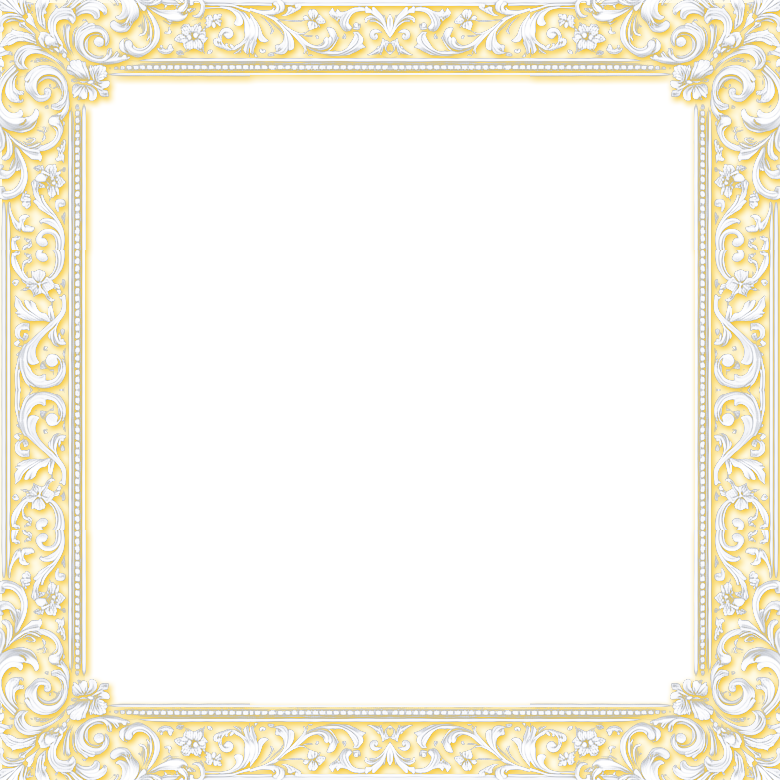
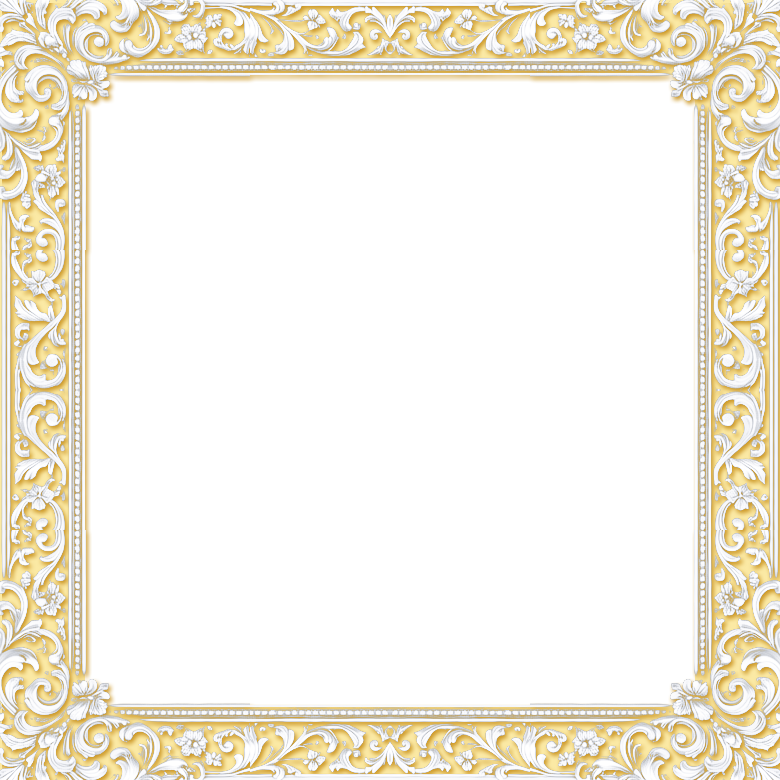
feat: GR frame ground mixed from ivory white and bright yellow (about #FBE9A4)

Changed region(s): [[0.0, 0.0, 1.0, 1.0]]

diff --git a/components/cards/CardFrame.tsx b/components/cards/CardFrame.tsx
@@ -11,7 +11,7 @@ export type Ornament = "dove" | "lily" | "ur" | "gr";
 /** The corner pieces are 34% of the ornament image; the middles repeat to fill each edge. (GR's image is 780 px wide with 250 px corners.) */
 const SLICE = 34;
 /** The GR frame picture is redrawn often: bump this so browsers fetch the new one instead of showing a cached copy. */
-const GR_FRAME_VERSION = 9;
+const GR_FRAME_VERSION = 10;
 const frameSrc = (art: Ornament) => (art === "gr" ? `/cards/frame-gr.png?v=${GR_FRAME_VERSION}` : `/cards/frame-${art}.png`);
 const sliceOf = (art: Ornament) => (art === "gr" ? "250" : `${SLICE}%`);
 /** UR: all seven neon colours across the card at once; the hues then keep cycling (bq-prism). */
